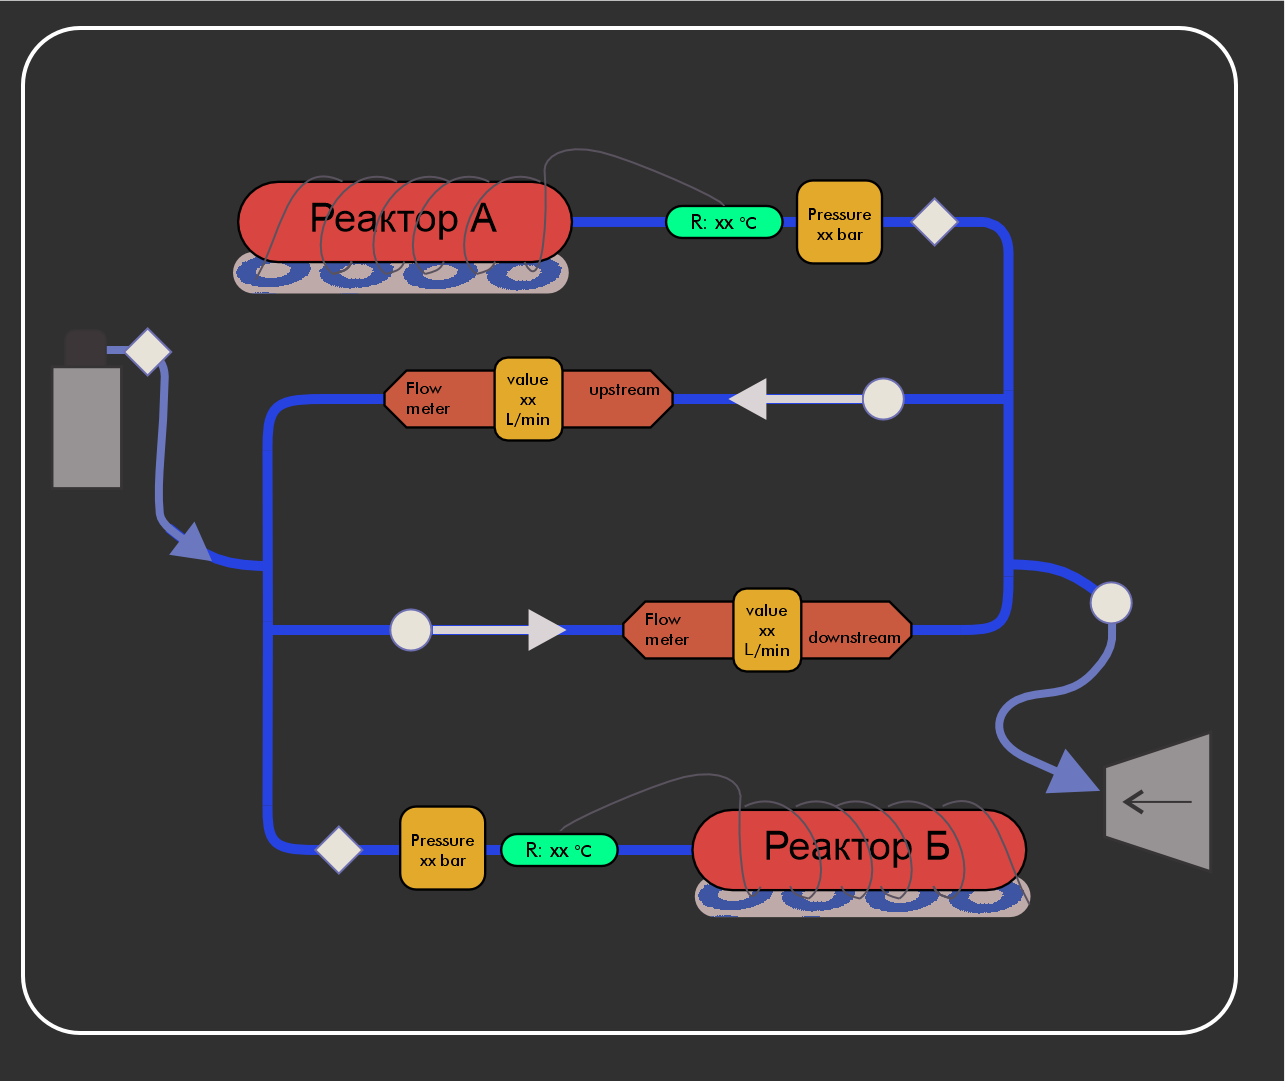
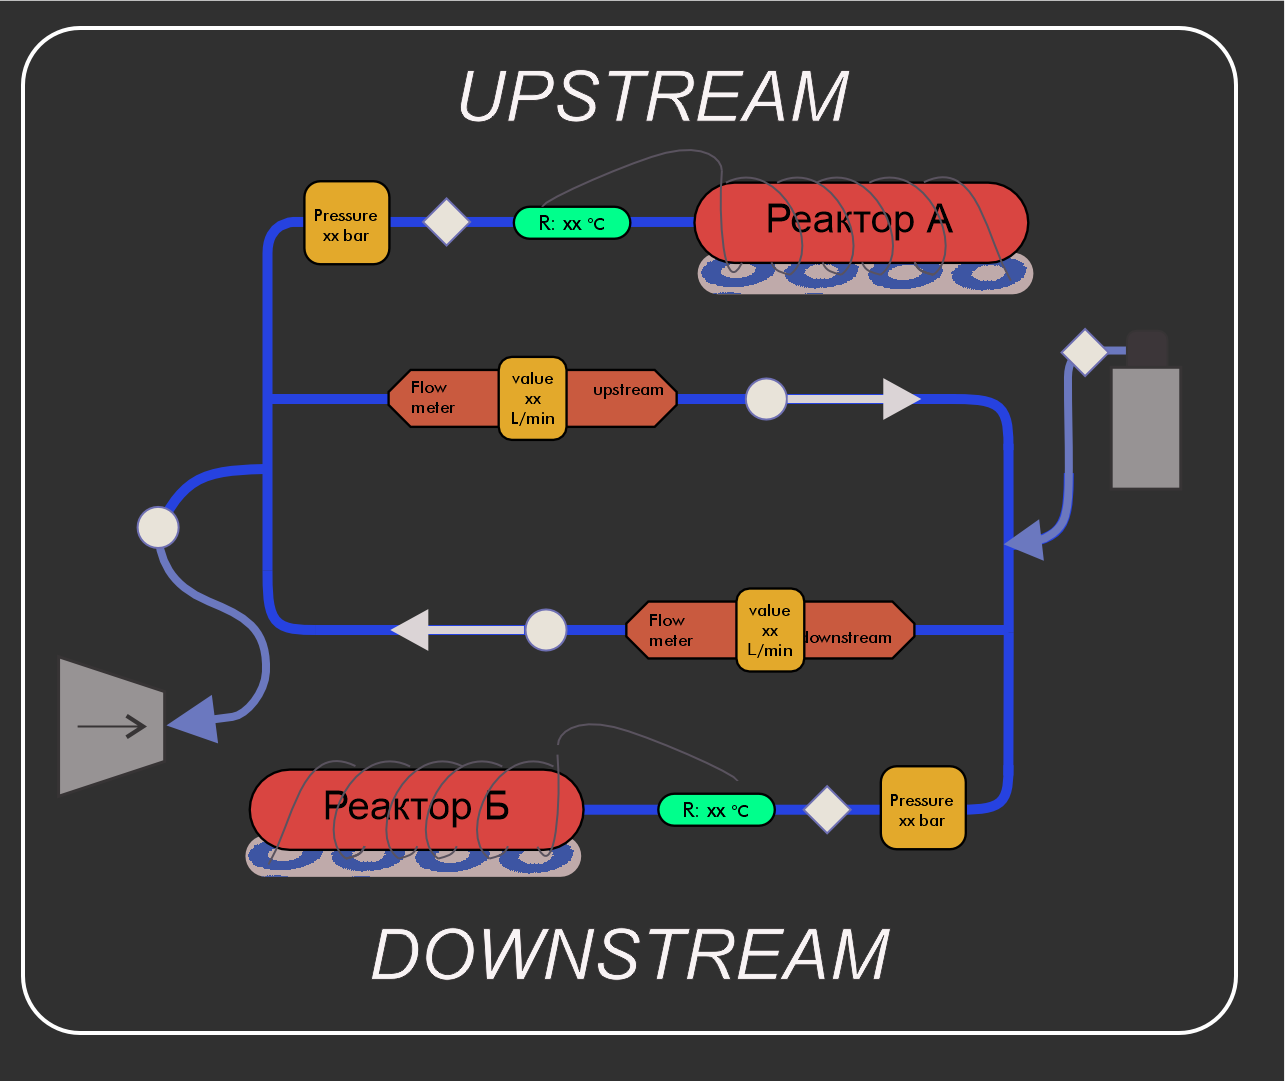
Mnemoscheme update for better understanding

diff --git a/src/qml/mnemo/PhyMHC_mnemo/PhyMHC_mnemoContent/MnemoBase.qml b/src/qml/mnemo/PhyMHC_mnemo/PhyMHC_mnemoContent/MnemoBase.qml
@@ -8,7 +8,7 @@ Item {
     Image {
         z: 0
         id: hMCmnemo
-        source: "background/mnemoscheme_beta.png"
+        source: "background/mnemoscheme_gamma.png"
         // fillMode: Image.PreserveAspectFit
         width: 1070
         height: 900
@@ -18,13 +18,13 @@ Item {
     GasTank {
         z:1
         id: gasTank
-        x: 36
-        y: 275
+        x: 921
+        y: 280
     }
     ValveButton {
         z: 1
         id: valveDowns
-        x: 719
+        x: 621
         y: 315
         checked: backend.vDwState
         onClicked: backend.vDwState = checked
@@ -32,7 +32,7 @@ Item {
     ValveButton {
         z: 1
         id: valveUps
-        x: 325
+        x: 438
         y: 507
         checked: backend.vUpState
         onClicked: backend.vUpState = checked
@@ -48,13 +48,13 @@ Item {
     Reactor{
         id: reactorUpstream
         z: 1
-        x: 203
-        y: 144
+        x: 578
+        y: 147
     }
     Switch{
         id: heaterSwitchUp
-        x: 210
-        y: 109
+        x: 585
+        y: 112
         height: 35
         z: 0
         text: qsTr("Heater")
@@ -64,26 +64,26 @@ Item {
 
     Cooler{
         z: 0
-        x: 218
-        y: 199
+        x: 593
+        y: 202
         cooling: backend.coolUpState
     }
     Cooler {
-        x: 303
-        y: 199
+        x: 678
+        y: 202
         z: 0
         cooling: backend.coolUpState
     }
     Cooler {
-        x: 388
-        y: 199
+        x: 763
+        y: 202
         z: 0
         cooling: backend.coolUpState
     }
     Switch{
         id: fanSwitchUp
-        x: 360
-        y: 109
+        x: 735
+        y: 112
         z: 0
         text: qsTr("Fans")
         checked: backend.coolUpState
@@ -92,13 +92,13 @@ Item {
 
     Reactor {
         z: 1
-        x: 582
-        y: 667
+        x: 221
+        y: 635
     }
     Switch {
         id: heaterSwitchDw
-        x: 615
-        y: 634
+        x: 253
+        y: 605
         height: 35
         text: qsTr("Heater")
         z: 0
@@ -107,25 +107,25 @@ Item {
     }
 
     Cooler {
-        x: 594
-        y: 722
+        x: 233
+        y: 690
         z: 0
     }
 
     Cooler {
-        x: 679
-        y: 722
+        x: 318
+        y: 690
         z: 0
     }
     Cooler {
-        x: 764
-        y: 722
+        x: 403
+        y: 690
         z: 0
     }
     Switch {
         id: fanSwitchDw
-        x: 741
-        y: 634
+        x: 379
+        y: 605
         text: qsTr("Fans")
         z: 0
         checked: backend.coolDwState
@@ -135,27 +135,27 @@ Item {
     SensorWidget {
         z: 1
         id: pressureUps
-        x: 658
+        x: 253
         y: 144
         value: backend.guiVals.pressureUpstream
     }
     SensorWidget {
         z: 1
         id: pressureDowns
-        x: 325
-        y: 667
+        x: 724
+        y: 635
         value: backend.guiVals.pressureDownstream
     }
     TempWidget {
         id: temperatureUps
-        x: 514
+        x: 407
         y: 160
         value: backend.guiVals.temperatureUpstream
     }
     TempWidget {
         id: temperatureDowns
-        x: 414
-        y: 683
+        x: 521
+        y: 651
         value: backend.guiVals.temperatureDownstream
     }
 
@@ -175,8 +175,8 @@ Item {
 
     ValveButton {
         id: valveVacuum
-        x: 908
-        y: 484
+        x: 115
+        y: 422
         z: 1
         checked: backend.vVaState
         onClicked: backend.vVaState = checked
